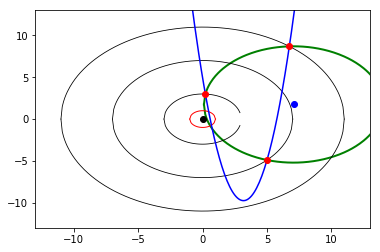
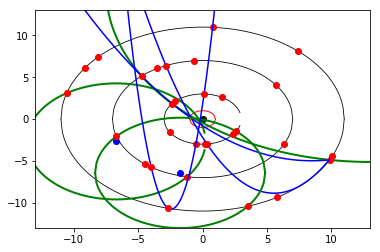
Graph layering

diff --git a/demo/plottingpoints.md b/demo/plottingpoints.md
@@ -14,7 +14,7 @@ def gen_circle_points(radii, num_sets):
             
             for r in radii:
                 a = randint(0,1)
-                x = uniform(0,r)
+                x = uniform(-r,r)
                 y = sqrt(r**2 - x**2)
                 if a == 0: y = -y
                 points.append((x,y))
@@ -72,35 +72,48 @@ def plot_circle(r, cx, cy, color, lw=2):
     ys = [2*cy - y for y in ys]
     plt.plot(xs, ys, color=color, linewidth=lw)
 
-        
-def plot(points, cen, r, a, b, c, radii, tolerance):
-    if (r != "N/A"):
-        plt.xlim(-radii[-1] -2, radii[-1] +2) #2 units padding
-        plt.ylim(-radii[-1] -2, radii[-1] +2)
-        plt.autoscale(False)
-            
-    #plot circle and center
-    if (r != "N/A"):
-        plt.plot([cen[0]], [cen[1]], 'ro', color="blue")
-        plot_circle(r, cen[0], cen[1], "green")
-      
+def plot_setup(radii, tolerance):
+    plt.xlim(-radii[-1] -2, radii[-1] +2) #2 units padding
+    plt.ylim(-radii[-1] -2, radii[-1] +2)
+    plt.autoscale(False)
+    
     #plot 'detector' rings
     for r in radii:
         plot_circle(r, 0, 0, "black", lw=0.8)
     
     #plot tolerance
     plot_circle(tolerance, 0, 0, "red", lw= 1)
-        
-    #plot the quadratic    
-    plot_quadratic(a, b, c)
+    
+    #plot origin
+    plt.plot([0],[0], 'ro', color="black")
+    return
+
+def plot(points, acc, tolerance): #points and feedback accuracy for rounding output
+    cen, r = circle(points)
+    print("Center: ({},{})".format(round(cen[0],acc),round(cen[1],acc)))
+    print("Radius: "+str(round(r,acc)))
+    a, b, c = quadratic(points)
+    print("Quadratic: {}x^2+{}x+{}".format(round(a,acc),round(b,acc),round(c,acc)))
+    
+    #plot circle and center
+    if (r != "N/A"):
+        if circle_near_origin(r, cen, tolerance):
+            plt.plot([cen[0]], [cen[1]], 'ro', color="blue")
+            plot_circle(r, cen[0], cen[1], "green")
+            print("Circle plotted: TRUE")
+        else:
+            print("Circle plotted: FALSE")
+    
+    #plot the quadratic
+    if quad_near_origin([a,b,c,], tolerance):
+        plot_quadratic(a, b, c)
+        print("Quadratic plotted: TRUE")
+    else:
+        print("Quadratic plotted: FALSE")
     
     #plot points
     plt.plot([x for x, y in points],
              [y for x, y in points], 'ro', color="red")
-    
-    #plot origin
-    plt.plot([0],[0], 'ro', color="black")
-    plt.show()
     return
 
 def circle(points):
@@ -147,92 +160,129 @@ def plot_quadratic(a,b,c):
     plt.plot(xs, ys, color="blue")
     return
 
+def gen_lots(radii, num_sets):
+    points_r1 = []
+    points_r2 = []
+    points_r3 = []
+    
+    r1 = radii[0]
+    r2 = radii[1]
+    r3 = radii[2]
+    
+    for i in range(num_sets):
+        a = randint(0,1)
+        x = uniform(-r1,r1)
+        y = sqrt(r1**2 - x**2)
+        if a == 0: y = -y
+        points_r1.append((x,y))
+        
+    for i in range(num_sets):
+        a = randint(0,1)
+        x = uniform(-r2,r2)
+        y = sqrt(r2**2 - x**2)
+        if a == 0: y = -y
+        points_r2.append((x,y))
+        
+    for i in range(num_sets):
+        a = randint(0,1)
+        x = uniform(-r3,r3)
+        y = sqrt(r3**2 - x**2)
+        if a == 0: y = -y
+        points_r3.append((x,y))
+        
+    return points_r1, points_r2, points_r3
+
 if __name__ == "__main__":
     print("="*40)
     radii = (3, 7, 11)
     tolerance = 1
     acc = 2 #accuracy of output
-    for i in range(5): #how many to show (in series)
+    num_sets = 10
+    plot_setup(radii, tolerance)
+    for i in range(num_sets): #how many to show (in series)
         points = gen_circle_points(radii,1)[0]
         rounded_points = [(round(point[0], acc), round(point[1],acc)) for point in points]
         print("Points: "+str(rounded_points))
-        cen, r = circle(points)
-        print("Center: ({},{})".format(round(cen[0],acc),round(cen[1],acc)))
-        print("Radius: "+str(round(r,acc)))
-        a, b, c = quadratic(points)
-        print("Quadratic: {}x^2+{}x+{}".format(round(a,acc),round(b,acc),round(c,acc)))
-        print("Quadratic through origin: "+str(quad_near_origin([a,b,c],tolerance)))
-        print("Circle through origin: "+str(circle_near_origin(r,cen,tolerance)))
-        print("Tolerance: {}".format(tolerance))
-        print("Graph below:")
-        plot(points, cen, r, a, b, c, radii, tolerance)
+        plot(points, acc, tolerance)
+        print("="*50)
+    print("Tolerance: {}".format(tolerance))
+    plt.show() #unindented to show all plots on one graph
 ```
 
     ========================================
-    Points: [(0.22, 2.99), (5.0, -4.9), (6.74, 8.7)]
-    Center: (7.06,1.75)
-    Radius: 6.96
-    Quadratic: 1.46x^2+-9.25x+4.93
-    Quadratic through origin: True
-    Circle through origin: True
+    Points: [(0.22, -2.99), (-1.21, -6.9), (-10.55, 3.11)]
+    Center: (-6.71,-2.67)
+    Radius: 6.94
+    Quadratic: 0.35x^2+3.08x+-3.69
+    Circle plotted: TRUE
+    Quadratic plotted: FALSE
+    ==================================================
+    Points: [(-0.49, -2.96), (-4.5, -5.36), (5.78, -9.36)]
+    Center: (0.16,-8.6)
+    Radius: 5.67
+    Quadratic: -0.16x^2+-0.19x+-3.01
+    Circle plotted: FALSE
+    Quadratic plotted: FALSE
+    ==================================================
+    Points: [(1.52, 2.59), (5.69, 4.07), (-8.14, 7.4)]
+    Center: (0.38,12.39)
+    Radius: 9.87
+    Quadratic: 0.06x^2+-0.09x+2.58
+    Circle plotted: FALSE
+    Quadratic plotted: FALSE
+    ==================================================
+    Points: [(-2.37, 1.84), (-4.74, 5.15), (9.86, -4.88)]
+    Center: (13.04,15.39)
+    Radius: 20.52
+    Quadratic: 0.06x^2+-0.98x+-0.81
+    Circle plotted: TRUE
+    Quadratic plotted: TRUE
+    ==================================================
+    Points: [(0.34, -2.98), (-2.84, 6.4), (10.08, -4.4)]
+    Center: (6.37,4.29)
+    Radius: 9.45
+    Quadratic: 0.22x^2+-2.41x+-2.2
+    Circle plotted: FALSE
+    Quadratic plotted: TRUE
+    ==================================================
+    Points: [(2.61, -1.48), (-6.69, -2.06), (3.51, -10.43)]
+    Center: (-1.75,-6.43)
+    Radius: 6.6
+    Quadratic: -0.98x^2+-3.95x+15.53
+    Circle plotted: TRUE
+    Quadratic plotted: FALSE
+    ==================================================
+    Points: [(-2.13, 2.11), (-0.66, 6.97), (-9.15, 6.11)]
+    Center: (-4.8,5.57)
+    Radius: 4.37
+    Quadratic: 0.46x^2+4.57x+9.78
+    Circle plotted: FALSE
+    Quadratic plotted: FALSE
+    ==================================================
+    Points: [(2.37, -1.84), (-3.5, 6.06), (0.82, 10.97)]
+    Center: (2.95,4.73)
+    Radius: 6.59
+    Quadratic: -1.6x^2+-3.16x+14.66
+    Circle plotted: FALSE
+    Quadratic plotted: FALSE
+    ==================================================
+    Points: [(-2.54, -1.59), (6.32, -3.01), (7.42, 8.12)]
+    Center: (2.73,2.97)
+    Radius: 6.97
+    Quadratic: 1.04x^2+-4.08x+-18.67
+    Circle plotted: FALSE
+    Quadratic plotted: FALSE
+    ==================================================
+    Points: [(0.12, 3.0), (-3.99, -5.75), (-2.65, -10.68)]
+    Center: (6.77,-5.47)
+    Radius: 10.76
+    Quadratic: 2.1x^2+10.25x+1.78
+    Circle plotted: FALSE
+    Quadratic plotted: TRUE
+    ==================================================
     Tolerance: 1
 
 
 
 ![png](output_0_1.png)
-
-
-    Points: [(1.95, 2.28), (0.4, -6.99), (7.07, -8.42)]
-    Center: (4.76,-2.96)
-    Radius: 5.94
-    Quadratic: -1.2x^2+8.78x+-10.28
-    Quadratic through origin: False
-    Circle through origin: True
-    Tolerance: 1
-
-
-
-![png](output_0_3.png)
-
-
-    Points: [(0.58, -2.94), (4.99, 4.91), (10.36, -3.69)]
-    Center: (5.68,-0.64)
-    Radius: 5.59
-    Quadratic: -0.35x^2+3.71x+-4.99
-    Quadratic through origin: False
-    Circle through origin: True
-    Tolerance: 1
-
-
-
-![png](output_0_5.png)
-
-
-    Points: [(2.34, -1.88), (6.72, 1.95), (3.21, 10.52)]
-    Center: (0.65,4.47)
-    Radius: 6.57
-    Quadratic: -3.79x^2+35.19x+-63.41
-    Quadratic through origin: False
-    Circle through origin: False
-    Tolerance: 1
-
-
-
-![png](output_0_7.png)
-
-
-    Points: [(0.53, 2.95), (5.31, 4.56), (4.24, 10.15)]
-    Center: (1.89,6.8)
-    Radius: 4.09
-    Quadratic: -1.5x^2+9.09x+-1.41
-    Quadratic through origin: True
-    Circle through origin: False
-    Tolerance: 1
-
-
-
-![png](output_0_9.png)
-
-
-    ========================================
 
